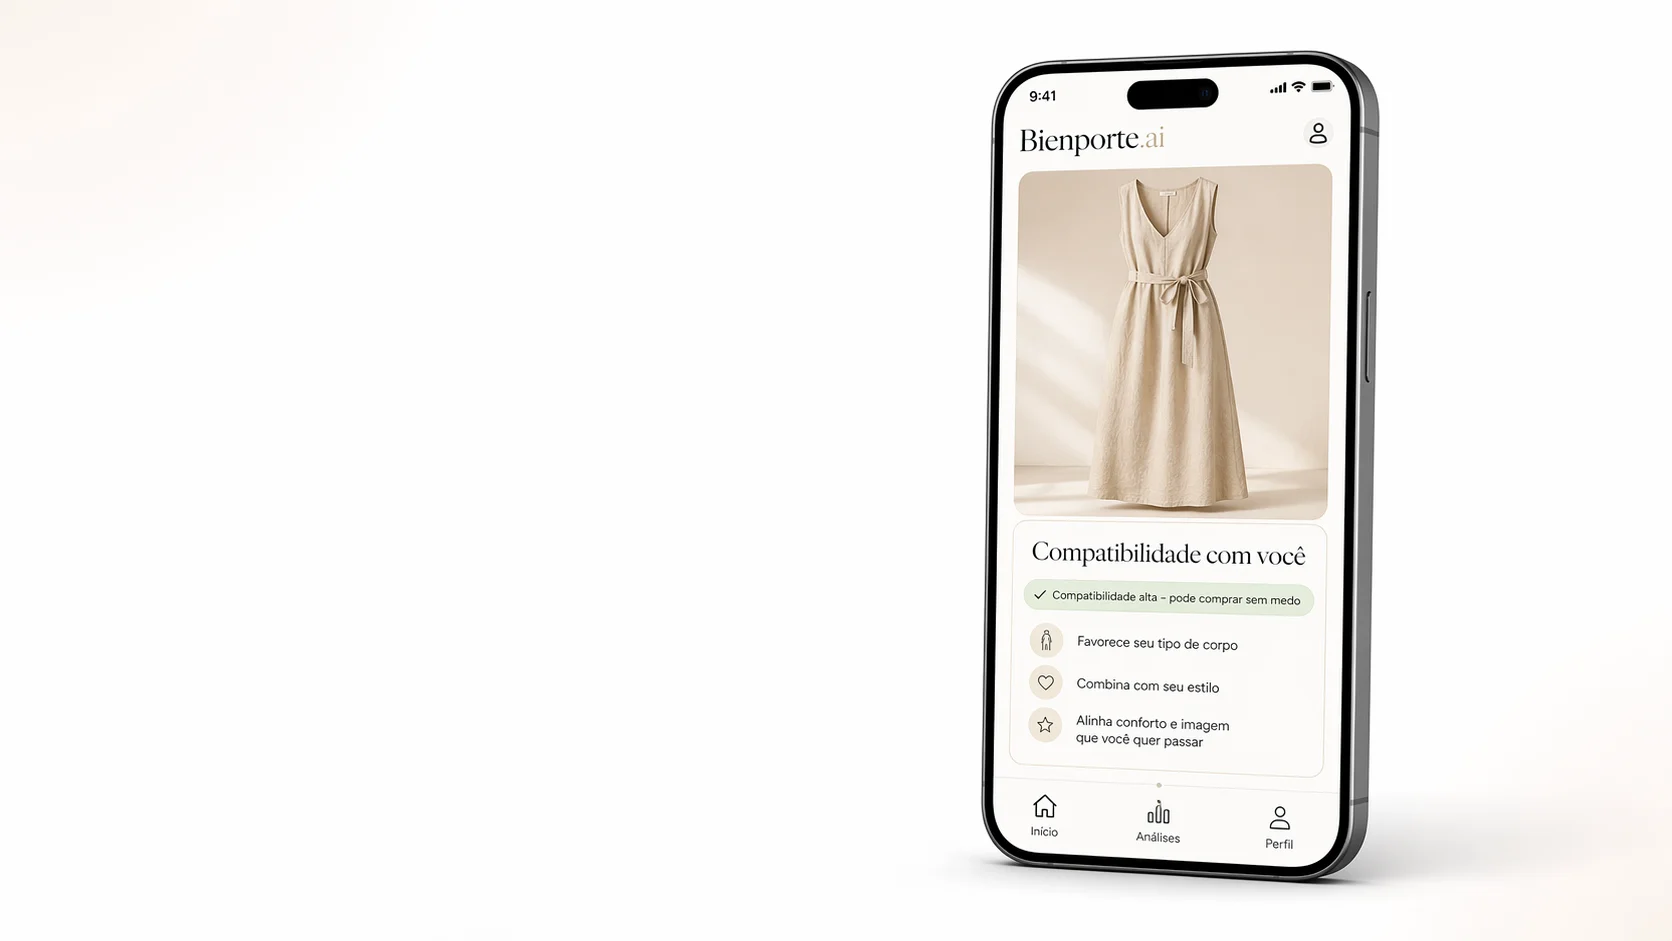
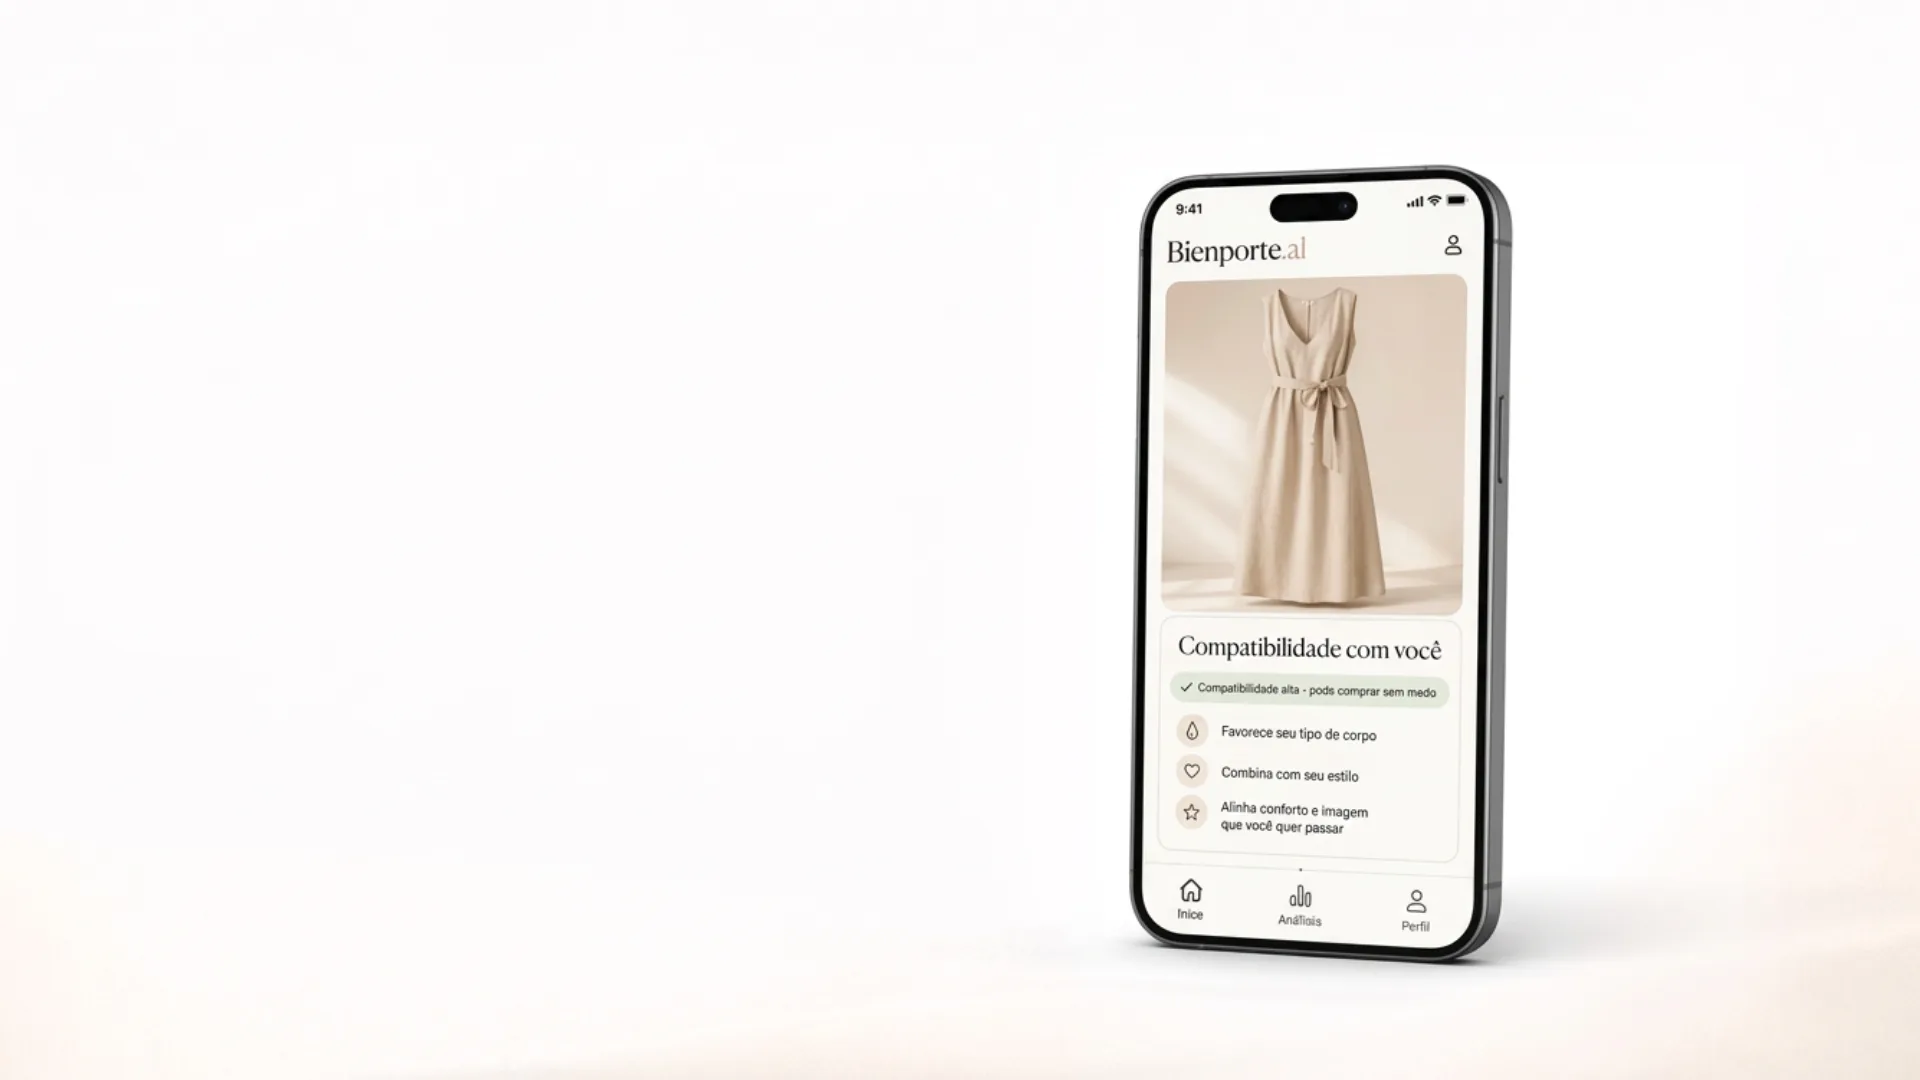
Auto-commit — 2026-04-29 15:43

Changed region(s): [[0.5598, 0.0308, 0.8708, 0.9554]]

diff --git a/css/style.css b/css/style.css
@@ -297,8 +297,8 @@ button { cursor: pointer; font-family: inherit; }
     inset: 0;
     width: 100%;
     height: 100%;
-    object-fit: contain;
-    object-position: center right;
+    object-fit: cover;
+    object-position: center center;
   }
 }
 

diff --git a/index.html b/index.html
@@ -56,7 +56,7 @@
         class="hero-bg"
         src="assets/images/hero-phone.webp"
         alt=""
-        width="1672" height="941"
+        width="1920" height="1080"
         loading="eager"
         aria-hidden="true"
       >
